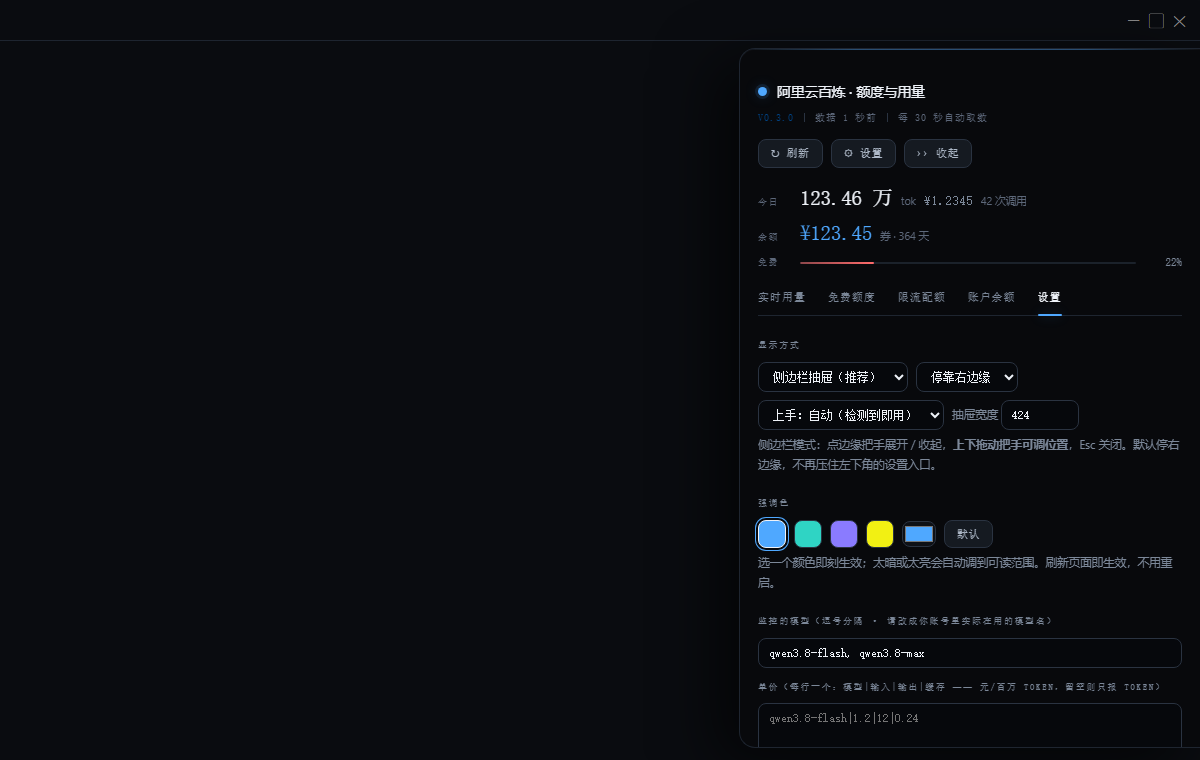
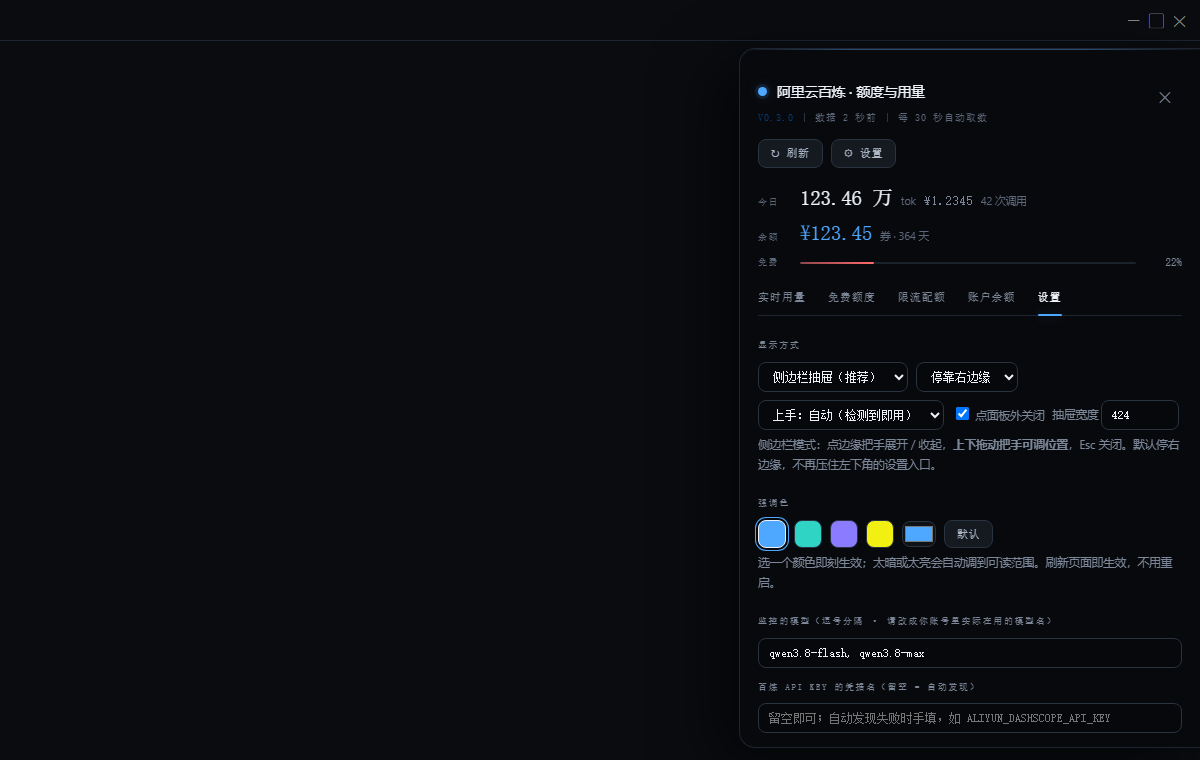
feat: auto-discover key ref, panel-local close button, click-outside dismiss (v0.3.1)

diff --git a/assets/widget.js b/assets/widget.js
@@ -61,7 +61,11 @@
     '.' + P + '-drawer::-webkit-scrollbar-thumb:hover{background:#3A4553;background-clip:padding-box;border:3px solid transparent}',
     '.' + P + '-drawer::-webkit-scrollbar-track{background:transparent}',
     // —— 头部 ——
-    '.' + P + '-hd{padding-right:96px;padding-top:16px}',
+    '.' + P + '-hd{position:relative;padding-right:46px;padding-top:16px}',
+    '.' + P + '-x{position:absolute;top:16px;right:2px;width:28px;height:28px;border-radius:8px;cursor:pointer;',
+    'display:flex;align-items:center;justify-content:center;font-size:15px;line-height:1;color:var(--dim);',
+    'border:1px solid transparent;transition:color var(--dur),background var(--dur),border-color var(--dur)}',
+    '.' + P + '-x:hover{color:var(--txt);background:var(--raise);border-color:var(--line2)}',
     '.' + P + '-hd h4{margin:0;font:500 13.5px/1.4 var(--sans);letter-spacing:.01em;display:flex;align-items:center;gap:10px;color:var(--txt)}',
     '.' + P + '-mark{width:9px;height:9px;border-radius:50%;flex:0 0 auto;background:var(--acc);box-shadow:0 0 0 3px var(--acc-12),0 0 14px var(--acc-28)}',
     '.' + P + '-meta{display:flex;flex-wrap:wrap;gap:10px;margin-top:8px;font:10px/1.6 var(--tech);letter-spacing:.1em;text-transform:uppercase;color:var(--dim3)}',
@@ -348,6 +352,18 @@
     bindDrag(handle)
     pill.onclick = function () { toggle() }
     document.addEventListener('keydown', function (e) { if (e.key === 'Escape' && open) setOpen(false) })
+    // 点面板外快速关闭。用 pointerdown 且要求按下目标在面板与把手之外，
+    // 这样在面板内选文字、拖到外面松手不会被误关；把手自身的点击也不受影响。
+    document.addEventListener('pointerdown', function (e) {
+      if (!open) return
+      var w = ((state && state.config) || {}).widget || {}
+      if (w.closeOnOutside === false) return
+      var t = e && e.target
+      if (!t || !t.tagName) return
+      if (drawer.contains(t) || handle.contains(t)) return
+      if (typeof panel !== 'undefined' && panel && panel.contains && panel.contains(t)) return
+      setOpen(false)
+    }, true)
     try { open = localStorage.getItem(LS_OPEN) === '1' } catch (e) { open = false }
     pull(false)
     timer = setInterval(function () { pull(true) }, 30000)
@@ -458,6 +474,9 @@
     // 保证没有任何可点元素进入 Electron 窗口控件（右上角）的命中区。
     return '<div class="' + P + '-hd">'
       + '<h4><span class="' + P + '-mark"></span>阿里云百炼 · 额度与用量</h4>'
+      // 关闭按钮在面板自己的右上角：抽屉从 top:48px 起，已经低于 Electron 的窗口控件带，
+      // 所以不会再和系统的 ✕ 重合（这也是当初把它挪到左侧的原因，现在两个都满足了）。
+      + '<span class="' + P + '-x" data-act="close" title="关闭面板（Esc 或点面板外也可关闭）">✕</span>'
       + '<div class="' + P + '-meta">'
       + '<span class="' + P + '-chip v">v' + esc(s.version || '?') + '</span>'
       + '<span class="' + P + '-chip">数据 ' + esc(ago(s.at)) + '</span>'
@@ -465,7 +484,6 @@
       + '<div class="' + P + '-acts">'
       + '<span class="' + P + '-btn" data-act="refresh" title="立即重新取数">↻ 刷新</span>'
       + '<span class="' + P + '-btn" data-act="tabcfg" title="打开设置">⚙ 设置</span>'
-      + '<span class="' + P + '-btn" data-act="close" title="收起面板（也可按 Esc，或再点一次边缘把手）">›› 收起</span>'
       + '</div></div>'
   }
   function summary() {
@@ -502,10 +520,15 @@
     if (ft.ok && src) ftBody = src + '。' + ftBody
     return [
       { ok: !!(st.tpm && st.tpm.ok), title: '百炼 API Key',
-        body: (st.tpm && st.tpm.ok) ? '已检测到 profile 里的 ALIYUN_DASHSCOPE_API_KEY，实时用量与限流配额已就绪。'
-          : '百炼控制台 → API-KEY 管理 创建，再到 DSH 设置 → 模型 填给这条路由。' },
+        body: (st.tpm && st.tpm.ok)
+          ? '已自动识别到凭据「' + (st.tpm.keyRef || 'profile 里的百炼 key') + '」，实时用量与限流配额已就绪。'
+          : '在 DSH「设置 → 模型」里给百炼路由填 API Key，保存后本面板会自动发现凭据名（不需要手填引用名）。' },
       { ok: !!b.ok, opt: true, title: '账户余额 / 代金券（可选）',
-        body: '在下方「设置」填一对 AK/SK 并勾选启用；建议单建 RAM 子账号，只授 AliyunBSSReadOnlyAccess。' },
+        body: '要给的权限：只读策略 AliyunBSSReadOnlyAccess。'
+          + '怎么给：① 阿里云控制台 → 访问控制 RAM → 用户 → 创建用户，勾选「OpenAPI 调用访问」；'
+          + '② 创建成功后立刻复制 AccessKey ID 与 Secret —— Secret 只显示一次，关掉页面就再也看不到；'
+          + '③ 在该用户的「权限管理」→ 新增授权，搜索 AliyunBSSReadOnlyAccess 并确认；'
+          + '④ 回到本面板「设置」粘贴这两个值、勾选启用。' },
       { ok: !!ft.ok, opt: true, title: '免费额度（可选）', body: ftBody },
     ]
   }
@@ -658,6 +681,8 @@
       + '<select class="' + P + '-in" id="' + P + '-firstrun" style="width:auto">'
         + opt('auto', (w.firstRun === 'wizard' ? 'wizard' : 'auto'), '上手：自动（检测到即用）')
         + opt('wizard', (w.firstRun === 'wizard' ? 'wizard' : 'auto'), '上手：分步引导') + '</select>'
+      + '<label class="' + P + '-muted"><input type="checkbox" id="' + P + '-outclose" '
+      + (w.closeOnOutside === false ? '' : 'checked') + '> 点面板外关闭</label>'
       + '<label class="' + P + '-muted">抽屉宽度 <input class="' + P + '-in" id="' + P + '-width" type="number" min="300" max="760" step="8" value="' + (Number(w.width) || 424) + '" style="width:78px;display:inline-block"></label>'
       + '</div>'
       + '<div class="' + P + '-muted" style="margin-top:5px">侧边栏模式：点边缘把手展开 / 收起，<b>上下拖动把手可调位置</b>，Esc 关闭。默认停右边缘，不再压住左下角的设置入口。</div>'
@@ -674,6 +699,9 @@
     return show + acc
       + '<div class="' + P + '-sec">监控的模型（逗号分隔 · 请改成你账号里实际在用的模型名）</div>'
       + '<input class="' + P + '-in" id="' + P + '-models" value="' + esc((c.models || []).join(', ')) + '">'
+      + '<div class="' + P + '-sec" style="margin-top:12px">百炼 API Key 的凭据名（留空 = 自动发现）</div>'
+      + '<input class="' + P + '-in" id="' + P + '-keyref" placeholder="留空即可；自动发现失败时手填，如 ALIYUN_DASHSCOPE_API_KEY" value="'
+      + esc(c.apiKeyRef === 'auto' ? '' : (c.apiKeyRef || '')) + '">'
       + '<div class="' + P + '-sec" style="margin-top:12px">单价（每行一个：模型|输入|输出|缓存 —— 元/百万 token，留空则只报 token）</div>'
       + '<textarea class="' + P + '-in" id="' + P + '-prices" rows="4" placeholder="qwen3.8-flash|1.2|12|0.24">' + esc(pm) + '</textarea>'
       + '<div class="' + P + '-sec" style="margin-top:12px">BSS 账户凭据（可选，用于账户余额/代金券；只读权限即可）</div>'
@@ -789,6 +817,7 @@
       var wid = document.getElementById(P + '-width')
       var patch = {
         models: models.length ? models : DEFAULTS_MODELS, prices: prices,
+        apiKeyRef: ((document.getElementById(P + '-keyref') || {}).value || '').trim() || 'auto',
         bss: { enabled: !!document.getElementById(P + '-bsson').checked },
         widget: Object.assign({}, ((state && state.config) || {}).widget || {}, {
           mode: (document.getElementById(P + '-mode') || {}).value || 'sidebar',
@@ -796,6 +825,7 @@
           width: wid ? Math.min(760, Math.max(300, Number(wid.value) || 424)) : 424,
           accent: accentNow,
           firstRun: (document.getElementById(P + '-firstrun') || {}).value === 'wizard' ? 'wizard' : 'auto',
+          closeOnOutside: !!(document.getElementById(P + '-outclose') || {}).checked,
         }),
       }
       var akid = (document.getElementById(P + '-akid').value || '').trim()

diff --git a/lib/index.js b/lib/index.js
@@ -19,7 +19,7 @@ import crypto from 'crypto'
 import { fileURLToPath } from 'url'
 
 const PACKAGE_ROOT = path.resolve(path.dirname(fileURLToPath(import.meta.url)), '..')
-const BUILD_VERSION = '0.3.0'
+const BUILD_VERSION = '0.3.1'
 const DSH_HOME = process.env.DSH_HOME || path.join(os.homedir(), '.dsh')
 const DATA_DIR = path.join(DSH_HOME, 'bailian-balance')
 const CONFIG_PATH = path.join(DATA_DIR, 'config.json')
@@ -289,12 +289,70 @@ function findBl() {
   return null
 }
 
+// —— 百炼 API Key 的凭据名自动发现 ——
+// DSH 设置里新建模型提供商时，凭据引用名是按**路由名**派生的（<ROUTE>_API_KEY），
+// 所以不能写死一个名字：否则用户刚配好 key，面板还说"不识别"。
+function profilePatchTexts() {
+  const dirs = []
+  if (process.env.DSH_PROFILE_DIR) dirs.push(process.env.DSH_PROFILE_DIR)
+  if (process.env.DSH_PROFILE) dirs.push(path.join(DSH_HOME, 'profiles', process.env.DSH_PROFILE))
+  const texts = []
+  for (const d of dirs) {
+    for (const f of ['cordis.patch.yml', 'cordis.patch.yaml']) {
+      try {
+        const t = fs.readFileSync(path.join(d, f), 'utf8')
+        if (t && texts.indexOf(t) < 0) texts.push(t)
+      } catch (e) { /* 该 profile 没有补丁文件 */ }
+    }
+  }
+  return texts
+}
+
+function candidateKeyRefs(c) {
+  const out = []
+  const push = (x) => {
+    const v = String(x || '').trim().replace(/^["']|["']$/g, '')
+    if (/^[A-Za-z][A-Za-z0-9_]*$/.test(v) && out.indexOf(v) < 0) out.push(v)
+  }
+  if (c.apiKeyRef && c.apiKeyRef !== 'auto') push(c.apiKeyRef)   // 用户在「设置」里显式填的最优先
+  push(process.env.DSH_BAILIAN_KEY_REF)      // 允许环境变量指定
+  // 从 profile 补丁里配对 apiKeyEnv ↔ baseURL(含 dashscope/bailian)
+  for (const txt of profilePatchTexts()) {
+    let lastEnv = null, lastDashBase = false
+    for (const ln of txt.split(/\r?\n/)) {
+      const e = /^\s*apiKeyEnv:\s*(\S.*?)\s*$/.exec(ln)
+      const u = /^\s*baseURL:\s*(\S.*?)\s*$/.exec(ln)
+      if (e) {
+        const env = e[1].replace(/^["']|["']$/g, '')
+        if (lastDashBase) push(env)          // baseURL 写在 apiKeyEnv 之前的顺序
+        lastEnv = env
+      } else if (u) {
+        lastDashBase = /dashscope|bailian/i.test(u[1])
+        if (lastDashBase && lastEnv) push(lastEnv)
+      }
+    }
+  }
+  for (const d of ['ALIYUN_DASHSCOPE_API_KEY', 'DASHSCOPE_API_KEY', 'BAILIAN_API_KEY']) push(d)
+  return out
+}
+
 // ── 数据源快照 ──────────────────────────────────────────────────────────────
 async function snapshotTpm(ctx) {
   const c = readConfig()
-  let key = ''
-  try { const cred = await ctx.credentials.resolve(c.apiKeyRef); key = cred && cred.value ? String(cred.value) : '' } catch (e) {}
-  if (!key) return { ok: false, code: 'NO_KEY', error: '未找到凭据 ' + c.apiKeyRef + '（设置→模型里配好该路由的 API Key）', items: [] }
+  const refs = candidateKeyRefs(c)
+  let key = '', used = ''
+  for (const ref of refs) {
+    try {
+      const cred = await ctx.credentials.resolve(ref)
+      if (cred && cred.value) { key = String(cred.value); used = ref; break }
+    } catch (e) { /* 这个引用名没有，试下一个 */ }
+  }
+  if (!key) return {
+    ok: false, code: 'NO_KEY', keyRefs: refs, items: [],
+    error: '没找到可用的百炼 API Key。已尝试的凭据名：' + refs.join('、') +
+      '。在 DSH「设置 → 模型」里给百炼路由配好 API Key 就会自动识别；' +
+      '也可以在下方的「设置」里手填凭据名。',
+  }
   try {
     const j = await req(dashscopeBase() + '/api/v1/quotas?page_no=1&page_size=200', { headers: { Authorization: 'Bearer ' + key } })
     const all = (j && j.output && j.output.quotas) || []
@@ -308,9 +366,9 @@ async function snapshotTpm(ctx) {
         requestLimit: ml.request_limit == null ? null : num(ml.request_limit),
       }
     })
-    return { ok: true, total: num(j.output.total), items, fetchedAt: Date.now() }
+    return { ok: true, total: num(j.output.total), items, fetchedAt: Date.now(), keyRef: used }
   } catch (e) {
-    return { ok: false, code: 'TPM_FAIL', error: String(e && e.message || e).slice(0, 200), items: [] }
+    return { ok: false, code: 'TPM_FAIL', keyRef: used, error: String(e && e.message || e).slice(0, 200), items: [] }
   }
 }
 

diff --git a/README.md b/README.md
@@ -36,7 +36,11 @@ dsh plugin --profile desktop add file:<上一步那个目录的绝对路径>
 | 账户余额 / 代金券 | 一对 AK/SK（可选） | 显示「未启用」并告诉你怎么开 |
 | 新人免费额度 | 控制台登录态（可选，见下） | 显示「未登录」并给两种开通方式 |
 
-### ⚠ 第一件事：把监控模型改成你自己的
+### ⚠ 第一件事：确认 API Key 被识别、并把监控模型改成你自己的
+
+面板打开后看「实时用量」标签的第一行提示：说"已自动识别到凭据「xxx」"就说明 key 通了。
+如果提示没找到，去 DSH「设置 → 模型」给百炼路由填 API Key，回来会自动重新发现。
+
 
 默认监控 `qwen3.8-flash` / `qwen3.8-max`。**如果你账号里没有这两个模型，「免费额度」和「限流配额」两格会是空的** —— 那不是坏了。
 到「设置」→「监控的模型」换成你实际在用的模型名，保存后立刻刷新。
@@ -72,6 +76,13 @@ dsh plugin --profile desktop add file:<上一步那个目录的绝对路径>
   自选色会按 HSL 亮度**自动钳制到可读范围** —— 选个近黑色也不会把余额数字变看不见。
 - **两种形态**：侧边抽屉（默认，可停靠左/右边缘、宽度可调、把手可拖动定位）或左下角胶囊。
 - **两种上手模式**：`auto` 与 `wizard`，设置里瞬间切换，不用重装。
+- **百炼 API Key 自动识别**：DSH 设置里新建路由时，凭据名是按路由名派生的（`<ROUTE>_API_KEY`）。
+  面板会去 profile 配置里配对 `baseURL` 含 dashscope 的 provider 逐个尝试，**不要求它叫某个固定名字**；
+  实在发现不了会在错误信息里列出试过的名字，也可以在「设置」里手填。
+- **关闭方式有三种**：面板右上角的 ✕、`Esc`、或**直接点面板外的任意区域**
+  （点外部这个行为可在设置里关掉；在面板内选文字拖到外面不会被误关）。
+- 向导里的 RAM 授权给的是可操作四步：建什么用户、勾什么选项、
+  **Secret 只显示一次要立刻复制**、在哪贴回来。
 
 配色只暴露**一个**可调项（其余是固定中性色阶）—— 面对 12 个变量的话你只会想关掉面板。
 

diff --git a/CHANGELOG.md b/CHANGELOG.md
@@ -2,6 +2,24 @@
 
 遵循 [Keep a Changelog](https://keepachangelog.com/zh-CN/1.1.0/) 与语义化版本。
 
+## v0.3.1
+
+### 新增
+- **百炼 API Key 凭据名自动发现**：从 profile 的 cordis 补丁里配对 `baseURL` 含 dashscope 的
+  provider 的 `apiKeyEnv`，逐个尝试解析。之前只认写死的 `ALIYUN_DASHSCOPE_API_KEY`，
+  而 DSH 设置界面新建路由时是按路由名派生 `<ROUTE>_API_KEY`，导致"刚配好 key 却显示不识别"。
+  发现失败时错误信息会列出尝试过的所有凭据名，设置里也可手填。
+- **点面板外即关闭**（`widget.closeOnOutside`，默认开）。用 `pointerdown` 且要求按下目标在面板与
+  把手之外，所以在面板内选文字拖到外面不会被误关。
+- 关闭按钮移到面板自己的右上角（✕）。抽屉从 `top:48px` 起，已低于 Electron 窗口控件带，
+  几何实测确认不再重合；原先"头部留 96px 空带"的避让方式随之取消。
+
+### 改变
+- 向导第 2 步的 RAM 授权说明改为可操作四步（建用户 → 勾选 OpenAPI 调用访问 →
+  立刻复制密钥并提示 Secret 只显示一次 → 新增授权搜 `AliyunBSSReadOnlyAccess` → 回面板粘贴启用）。
+- 测试替身修正：假 dashscope 网关的响应形状对齐真实接口（`{output:{quotas,total}}`），
+  之前返回裸数组会让解析抛异常并被归类成 `TPM_FAIL`。
+
 ## v0.3.0
 
 ### 新增
